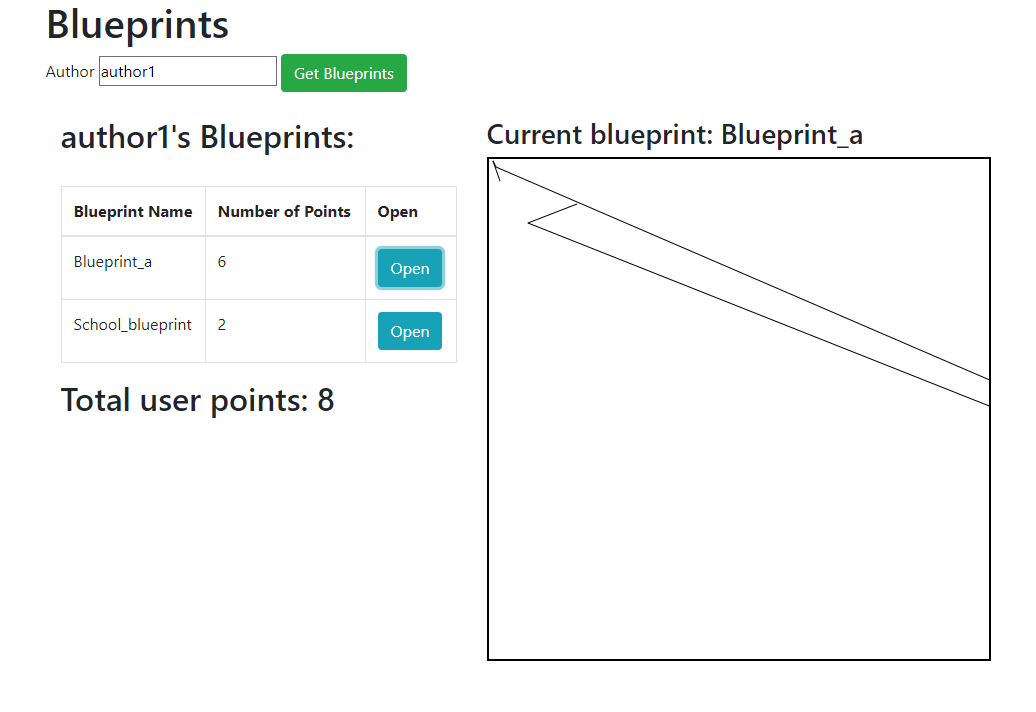
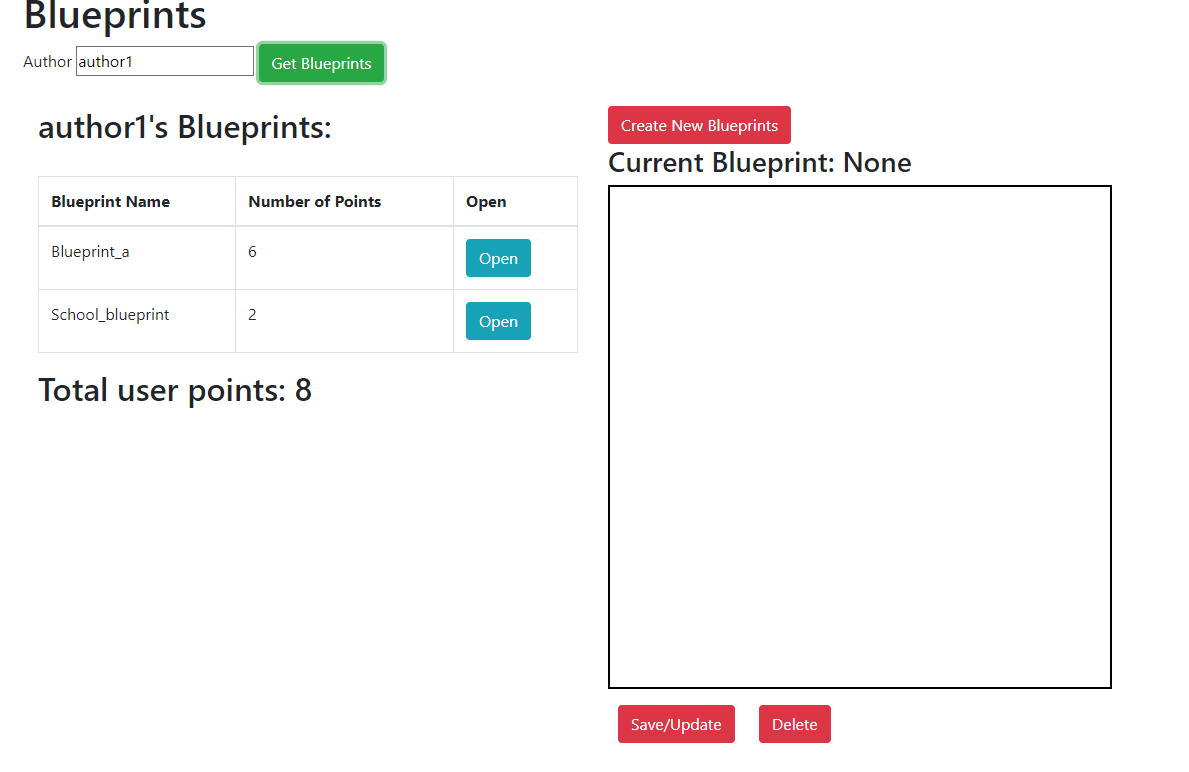
Readme

diff --git a/Lab6/README.md b/Lab6/README.md
@@ -1,13 +1,30 @@
 
-# ARSW-Lab 05
+# ARSW-Lab 06
 
-## Parte 1
 
 - Ejecución: gradle bootRun
 - URL: http://localhost:8080
 - Autores para test: author1 y author2
 
+
+#### Cargar "Author"
 ![](img/1.PNG)
+
+####Abrir blueprint
+
+![](img/2.PNG)
+
+####Añadir nuevos puntos a partir de clicks
+
+![](img/3.PNG)
+
+####Crear nuevo Blueprint
+
+![](img/4.PNG)
+
+####Se crea nuevo Blueprint a partir del nombre puesto
+
+![](img/5.PNG)
 
 
 
